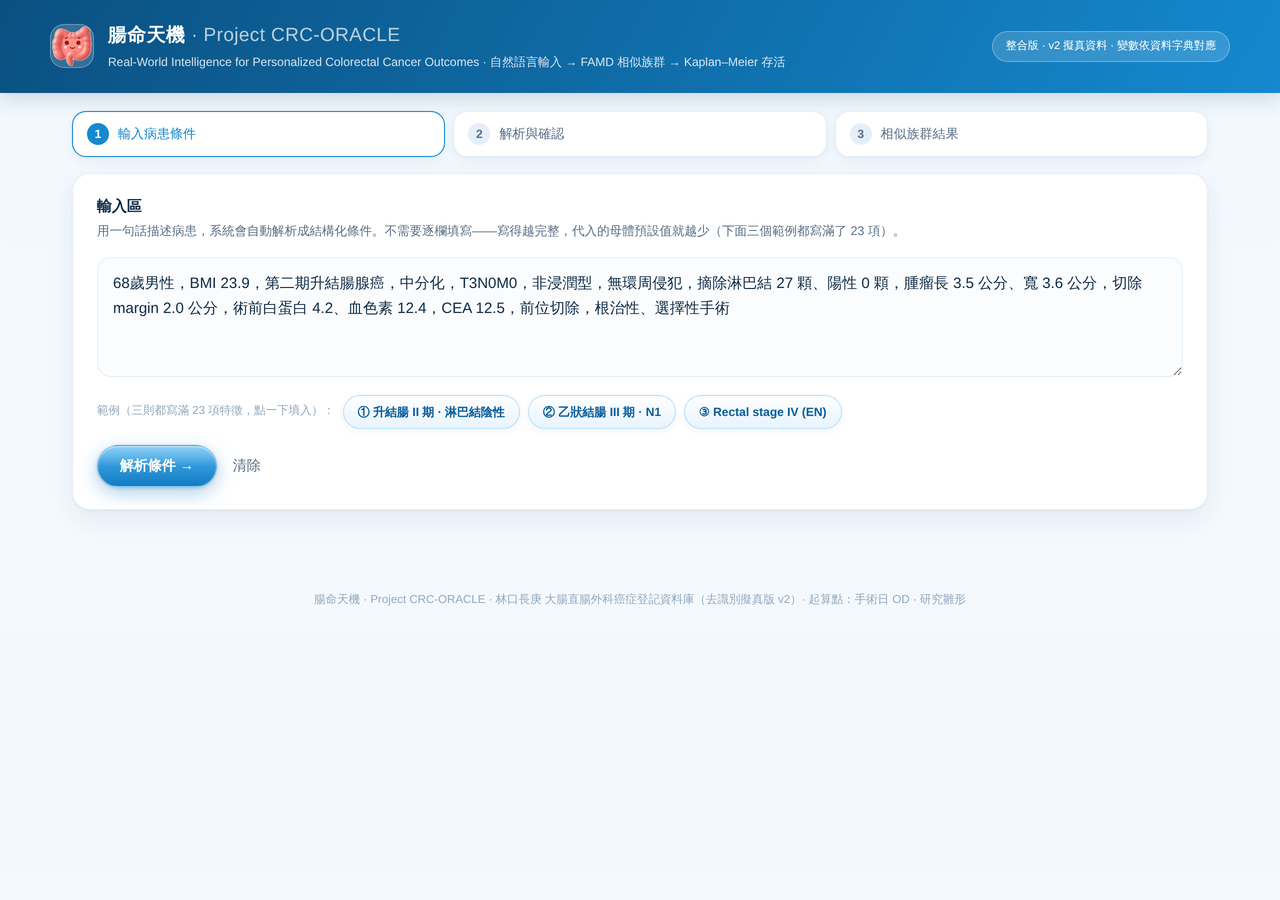
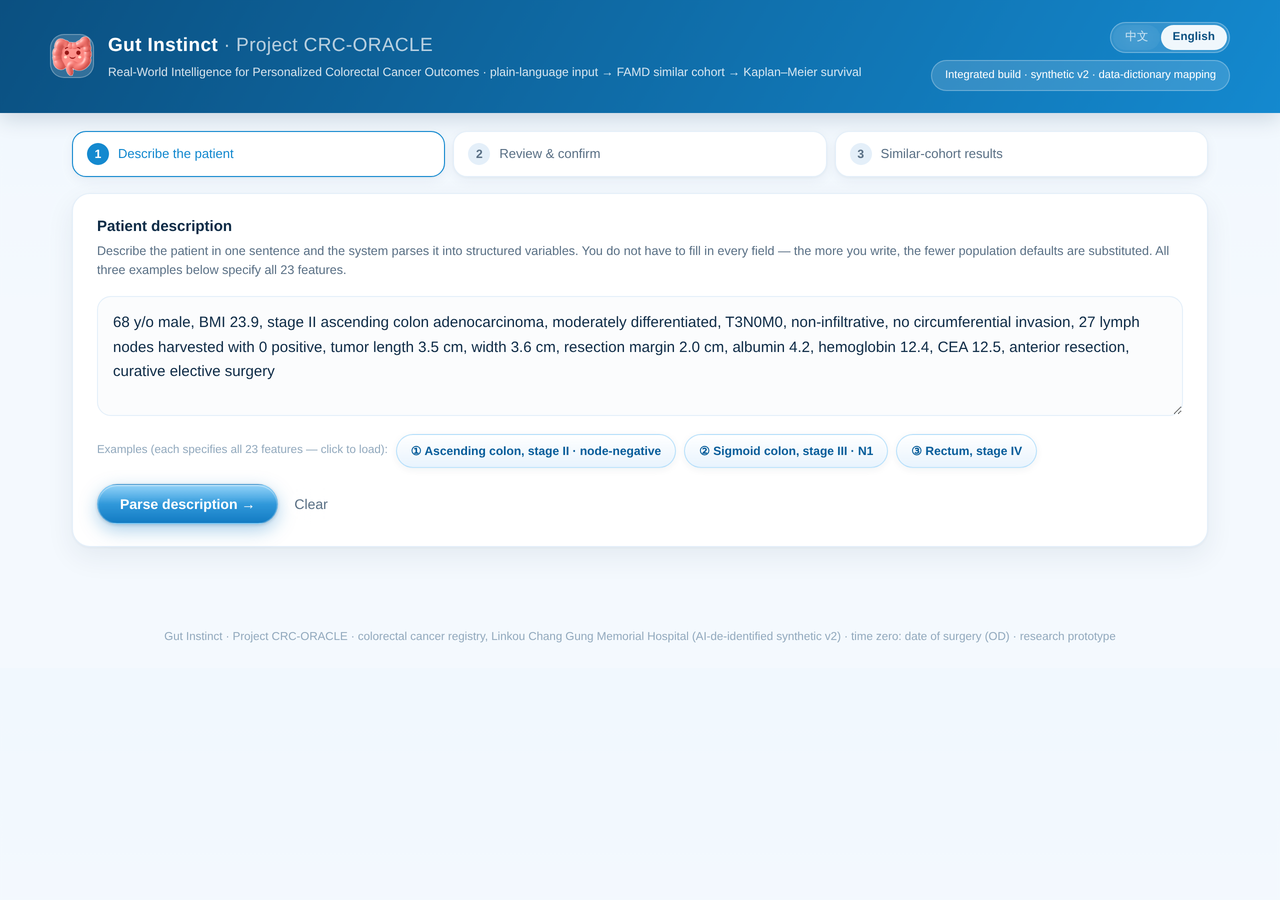
docs: README 截圖改為英文介面，新增年齡分層方法學附錄
- README 三張截圖重拍為英文介面（README 本身是英文為主，原本配中文截圖不一致）
- 新增 Bilingual interface 段落與中英標頭對照圖
- 步驟 2 說明補上「年齡 1 + 連續 10 + 類別 12」的分區
- 新增 04_docs_文件/年齡分層方法學附錄.md：
  · age_to_group() 的分箱做法與 23 特徵的新舊拆法
  · Cox 係數與 HR（基準 50-60；<50 為 0.854、80+ 為 2.310）
  · 未調整 5 年 OS 與調整後 HR 方向相反的原因（<50 第 IV 期 22.0% vs 60-70 的 14.7%）
  · 釐清 C-index 進步來自 Cox 而非 FAMD，附 age_group 在 PC1-5 的貢獻排名
  · 12 例 holdout 數字波動大、應以 cv5 為準

diff --git a/04_docs_文件/年齡分層方法學附錄.md b/04_docs_文件/年齡分層方法學附錄.md
@@ -1,0 +1,136 @@
+# 方法學附錄：年齡為什麼改成 5 分層
+
+> Project CRC-ORACLE（腸命天機）· FAMD v3.1
+> 所有數字取自 `02_model_模型/current_famd_age-layered_年齡分層版/artifacts_famd.pkl`，
+> 由 12,196 位訓練樣本實際計算，非引用文獻。
+
+---
+
+## 一句話版本
+
+年齡對存活的影響不是線性的：50–70 歲是低風險平原，70 歲後陡升，80+ 的風險是 50–60 歲的 **2.3 倍**。把年齡切成 5 層讓模型各自學各層的風險，不必假設「每多一歲風險等比上升」。
+
+---
+
+## 1. 做法
+
+`train_famd_v3.py` 把年齡從連續變項改為 5 個分層，並移入類別變項清單：
+
+```python
+AGE_BINS   = [0, 50, 60, 70, 80, 200]
+AGE_LABELS = ["<50", "50-60", "60-70", "70-80", "80+"]
+
+def age_to_group(age) -> str:
+    if pd.isna(age):
+        return np.nan
+    for lo, hi, label in zip(AGE_BINS[:-1], AGE_BINS[1:], AGE_LABELS):
+        if lo <= age < hi:
+            return label
+    return np.nan
+```
+
+左閉右開區間查表。特徵總數不變，仍是 23 個：
+
+| | 舊版 | 新版 |
+|---|---|---|
+| 拆法 | 11 連續 + 12 類別 | 10 連續 + 13 類別 |
+| 年齡 | `AGE`，連續變項第 1 個 | `age_group`，類別變項第 2 個 |
+| 值 | 68（實際歲數） | `60-70` |
+
+---
+
+## 2. 為什麼有效：模型可以學非線性
+
+年齡當連續變項時，Cox 只能學一個係數 β，強迫每多一歲風險乘上 e^β —— 40→41 歲和 84→85 歲被當成同一件事。
+
+改成類別後，`get_dummies` 拆成 4 個 0/1 欄位（`drop_first` 掉基準組），每一層有獨立係數。實際 fit 出來的結果（**基準組 = 50-60**）：
+
+| 分層 | Cox coef | HR | 相對 50-60 |
+|---|---|---|---|
+| `<50` | −0.1576 | **0.854** | 低 15% |
+| `50-60` | （基準） | 1.000 | — |
+| `60-70` | −0.0540 | 0.947 | 低 5% |
+| `70-80` | +0.3216 | 1.379 | 高 38% |
+| `80+` | +0.8374 | **2.310** | 高 131% |
+
+從 <50 到 80+ 不是等距遞增：50-60 與 60-70 幾乎沒差（0.947 vs 1.000），70-80 跳到 1.38、80+ 再跳到 2.31。**曲線是凹的，一條直線塞不進去。**
+
+**結果：5-fold CV C-index 0.7978 → 0.7995。**
+
+---
+
+## 3. 一個會被問倒的地方：調整前後方向相反
+
+| | `<50` | `50-60` | `60-70` | `70-80` | `80+` |
+|---|---|---|---|---|---|
+| 人數 | 1,698 | 2,784 | 3,490 | 2,673 | 1,551 |
+| 追蹤期間死亡率 | 29.1% | 28.3% | 29.1% | 44.6% | 67.4% |
+| **原始 5 年 OS（未調整）** | **74.2%** | 76.8% | 76.3% | 65.5% | 45.3% |
+| **Cox 調整後 HR** | **0.854** | 1.000 | 0.947 | 1.379 | 2.310 |
+
+- **未調整**：`<50` 的存活（74.2%）比 50-60（76.8%）和 60-70（76.3%）**差** → 排在中間
+- **調整 22 個其他變項後**：`<50` 反而變成風險**最低**
+
+### 為什麼翻轉
+
+年輕病患確診時期別明顯更晚：
+
+| 期別分布 | `<50` | `50-60` | `60-70` | `70-80` | `80+` |
+|---|---|---|---|---|---|
+| 第 IV 期 | **22.0%** | 16.2% | 14.7% | 14.2% | 15.2% |
+| 第 III + IV 期 | **58.0%** | 50.5% | 48.0% | 47.6% | 50.2% |
+
+`<50` 的第 IV 期比例是 60-70 歲的 **1.5 倍**。年輕人症狀常被當成痔瘡或腸躁症，拖到晚期才診斷。所以他們整體存活差，**不是因為年輕，是因為發現得晚**；一旦控制住期別，年輕的生理優勢就顯現出來。
+
+這正是要分層的理由 —— 連續假設會把「早發型晚期化」和「高齡本身的死亡風險」硬壓成同一條斜線，兩邊都學不好。
+
+---
+
+## 4. ⚠ 別講錯的一點
+
+**C-index 的進步來自 Cox 模型，不是 FAMD。**
+
+`train_famd_v3.py` 第 175–182 行：
+
+```python
+X_train, cont_mu, cont_sigma, dummy_cols = build_cox_design(train_imp)
+cph = CoxPHFitter(penalizer=0.1)
+cph.fit(cox_df, duration_col="os_time_days", event_col="os_event")
+```
+
+`build_cox_design()` 吃的是 `df_imp[CONT]` 加上 `get_dummies(df_imp[CAT])`，也就是**原始 23 個特徵**，不是 FAMD 座標。Cox 模型從頭到尾沒碰過 `train_coord`。
+
+兩者的分工是：
+
+| | 用途 | 年齡的角色 |
+|---|---|---|
+| **Cox PH** | 算 C-index，衡量模型判別力 | 分層後可學非線性 → **0.7995** |
+| **FAMD 5 主成分** | 算相似度、圈出對照族群 | 貢獻很小（見下） |
+
+`age_group` 在五個主成分的貢獻度排名（共 23 個變項，取自 `famd_coefficients_v3.json` 的 column contributions）：
+
+| | PC1 | PC2 | PC3 | PC4 | PC5 |
+|---|---|---|---|---|---|
+| 新版 `age_group` | 第 19 名 | **第 11 名** | 第 17 名 | 第 12 名 | 第 21 名 |
+| 貢獻度 | 0.0023 | 0.0237 | 0.0064 | 0.0096 | 0.0008 |
+| 舊版 `AGE` | 第 23 名 | 第 13 名 | 第 18 名 | 第 11 名 | 第 21 名 |
+
+前五軸從頭到尾由分期類變項主宰（`TNM_stage`、`T_stage`、`N_stage`、`M_stage`、`IR_curative`）。PC1 第一名的 `TNM_stage` 貢獻 0.1220，是 `age_group` 的 **53 倍**。
+
+### 安全的說法
+
+> ✅ 年齡分層讓存活風險模型（Cox）的判別力提升，5-fold CV C-index 從 0.7978 到 0.7995。至於相似族群搜尋，年齡在前五個主成分的貢獻都排在第 11 名以後，主要仍由 TNM 分期主導。
+
+> ❌ 不要說「改用年齡分層後，FAMD 相似度搜尋變準了」—— 資料不支持這個說法。
+
+---
+
+## 5. 12 例 holdout 的數字為什麼變差
+
+| | 舊版 | 新版 |
+|---|---|---|
+| 訓練 C-index | 0.7993 | 0.8011 |
+| **5-fold CV** | 0.7978 | **0.7995** |
+| 12 例 holdout | 0.7568 | 0.7027 |
+
+holdout 只有 12 個人，一兩例的排序變動就會讓數字大幅跳動，參考價值有限。**cv5 才是該看的指標**。被問到時直接這樣回答即可。

diff --git a/03_website/deploy/README.md b/03_website/deploy/README.md
@@ -15,6 +15,12 @@ A StanCode SC201 project. A surgeon types a free-text clinical description; the 
 |---|---|---|
 | ![Step 1](screenshots/step1.png) | ![Step 2](screenshots/step2.png) | ![Step 3](screenshots/step3.png) |
 
+### Bilingual interface
+
+The whole interface switches between English and Traditional Chinese from the header — variable names, units, category levels, component interpretations and the worked examples all follow. The choice is remembered; without one, it follows the browser locale.
+
+![Language switch](bilingual.png)
+
 ---
 
 ## How it works
@@ -23,7 +29,7 @@ A StanCode SC201 project. A surgeon types a free-text clinical description; the 
 `68歲男性，第二期升結腸腺癌，中分化，CEA 12.5` or
 `68-year-old male, stage II ascending colon adenocarcinoma, moderately differentiated, CEA 12.5`
 
-**2 · Parse and confirm.** All 23 model features are shown as editable cells, each labeled with its variable name and colour-coded by provenance:
+**2 · Parse and confirm.** All 23 model features are shown as editable cells — age as one field (binned into 5 strata by the model), then 10 continuous and 12 categorical — each labeled with its variable name and colour-coded by provenance:
 
 | | Meaning |
 |---|---|
